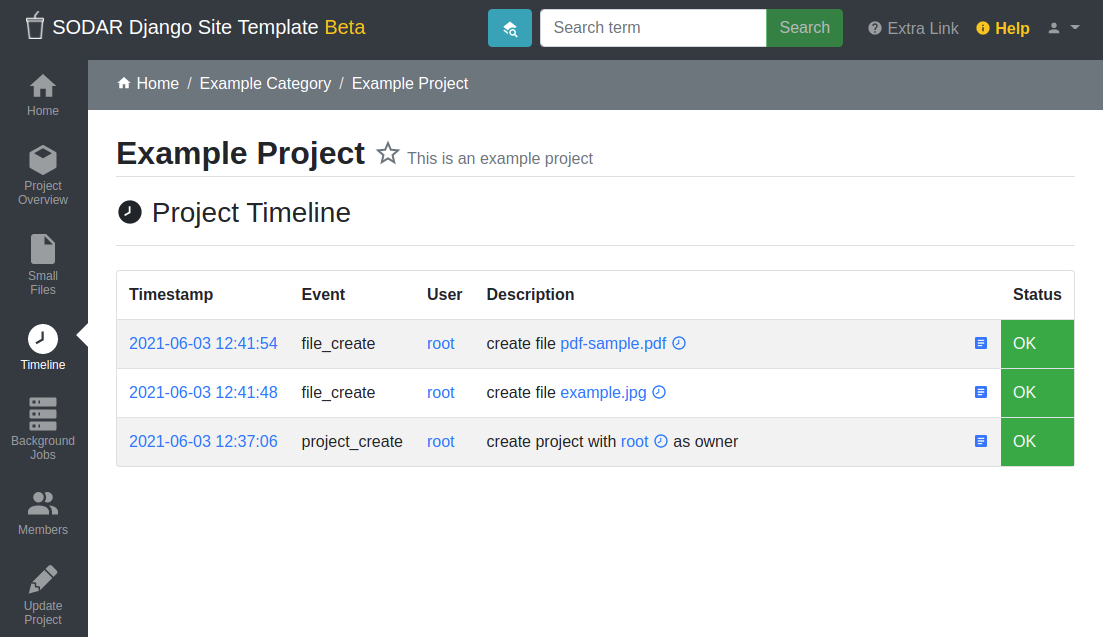
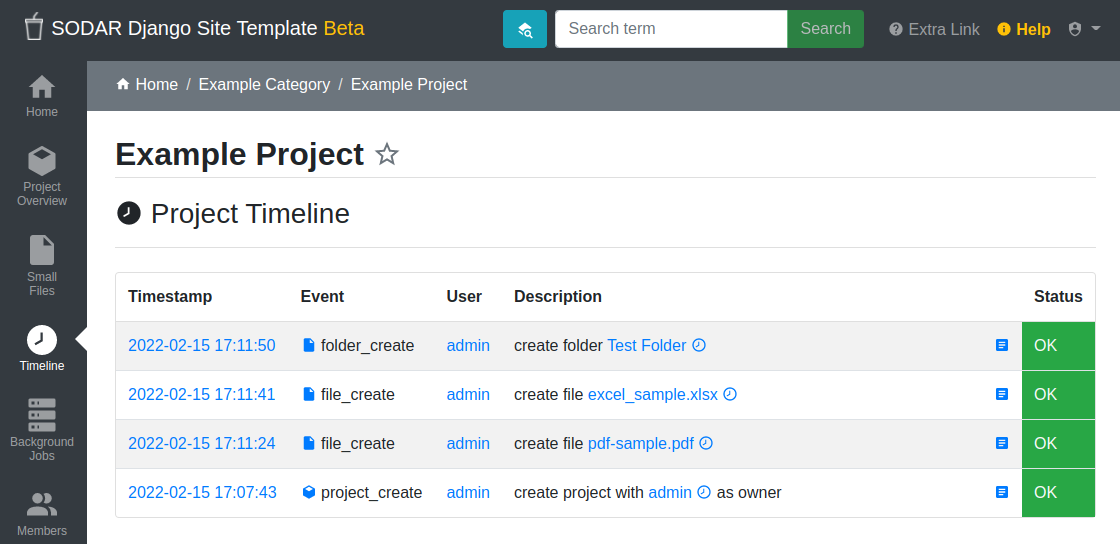
update for_the_impatient doc (#917)

diff --git a/docs/source/for_the_impatient.rst b/docs/source/for_the_impatient.rst
@@ -7,8 +7,8 @@ This section will give you the essential steps to setup a new SODAR Core based
 project. We will link to the parts of the manual where they were taken from such
 that you can read more in depth there.
 
-.. _for_the_impatient_see_it_in_action:
 
+.. _for_the_impatient_see_it_in_action:
 
 See It In Action
 ================
@@ -18,16 +18,22 @@ using SODAR Core. Although there only is a public demo available for VarFish at
 this time, the source code of the applications demonstrate how to use SODAR Core
 in complex web applications.
 
-  `VarFish <https://github.com/bihealth/varfish-server>`__
-    is a web-based tool for the analysis of variants.
+  `SODAR <https://github.com/bihealth/sodar-server>`_
+    The system for Omics data access and retrieval. This system is used to model
+    study metadata and manage associated data files in different Omics research
+    projects. SODAR Core was created by separating re-usable research project
+    management components from the SODAR project.
+
+  `VarFish <https://github.com/bihealth/varfish-server>`_
+    A web-based tool for the analysis of variants.
     It showcases how to build a complex data warehousing and data analysis web
     appliction using SODAR Core.
     More details are described in the `NAR Web Server Issue publication (doi:10.1093/nar/gkaa241) <https://doi.org/10.1093/nar/gkaa241>`__.
     The source code can be found on `github.com/bihealth/varfish-server <https://github.com/bihealth/varfish-server>`__.
     A demo is available at `varfish-demo.bihealth.org <https://varfish-demo.bihealth.org/login/>`__.
 
-  `DigestiFlow <https://github.com/bihealth/digestiflow-server>`__
-    is a web-based data system for the management and demultiplexing of Illumina
+  `DigestiFlow <https://github.com/bihealth/digestiflow-server>`_
+    A web-based data system for the management and demultiplexing of Illumina
     Flow Cells. It further implements various tools for sanity checking Illumina
     sample sheets and quality control (e.g., comparing barcode adapter sequence
     and actual sequence present in the sequencer output).
@@ -35,8 +41,8 @@ in complex web applications.
     The source code can be found on `github.com/bihealth/digestiflow-server <https://github.com/bihealth/digestiflow-server>`__.
     There currently is no public demo instance yet.
 
-  `Kiosc <https://github.com/bihealth/kiosc>`__
-    is a web application that allows to build scheduler Docker containers for
+  `Kiosc <https://github.com/bihealth/kiosc>`_
+    A web application that allows to build scheduler Docker containers for
     "data science" apps and dashboards. There currently is no public demo
     instance yet.
 
@@ -100,24 +106,15 @@ URLs to more.
 For activating the conda installation, use ``source ~/miniconda3/bin/activate``.
 
 
-Install SODAR Core
-==================
-
-We simply use ``pip`` for this:
-
-.. code-block:: bash
-
-    # you must have your miniconda3 install sourced, skip if done already
-    $ source ~/miniconda3/bin/activate
-    $ pip install django-sodar-core==0.10.8
-
-
 Download Example Site
 =====================
 
+The recommended way to get started with SODAR Core is to download and set up the
+example Django site, which installs SODAR Core and also sets up a default web
+site around it.
+
 We maintain a Git repository with a django project using the latest SODAR Core
 version here on GitHub: `sodar-django-site <https://github.com/bihealth/sodar-django-site>`_.
-We will use this to get hit the ground running.
 See :ref:`app_projectroles_integration` on other ways to get started with SODAR
 Core.
 
@@ -135,6 +132,8 @@ To complete this step install the development requirements.
 
 .. code-block:: bash
 
+    # you must have your miniconda3 install sourced, skip if done already
+    $ source ~/miniconda3/bin/activate
     $ pip install -r requirements/local.txt
 
 
@@ -160,8 +159,9 @@ The default value for this is shown below.
 
     DATABASE_URL="postgres://sodar-django-site:sodar-django-site@127.0.0.1/sodar-django-site"
 
-To keep it simple, you can use the following commands to create the correct
-database, user, and set the password.
+You can use the following commands to create the correct database, user, and set
+the password. Alternatively, you can run the ``utility/setup_database.sh``
+script and fill out the values as prompted.
 
 .. code-block:: bash
 
@@ -180,19 +180,19 @@ Now, we have to make sure that the environment file is read:
 Database Initialization
 =======================
 
-For the final steps, you will initialize the database...
+For the final steps, you will need to initialize the database:
 
 .. code-block:: bash
 
     $ python manage.py migrate
 
-... and create a new admin user ...
+Finally, create an admin user:
 
 .. code-block:: bash
 
     $ python manage.py createsuperuser
-    Username: root
-    Email address: root@example.com
+    Username: admin
+    Email address: admin@example.com
     Password:
     Password (again):
     Superuser created successfully.
@@ -201,7 +201,8 @@ For the final steps, you will initialize the database...
 The First Login
 ===============
 
-Now, start the server, and you can then visit http://127.0.0.1:8000/login/?next=/
+To access the site, start the server with ``make serve`` and use your web
+browser to navigate to the following URL: http://127.0.0.1:8000
 
 .. code-block:: bash
 
@@ -218,70 +219,77 @@ Now, start the server, and you can then visit http://127.0.0.1:8000/login/?next=
 
 You should see the following:
 
-.. figure:: _static/for_the_impatient/login_screen.png
+.. figure:: _static/for_the_impatient/login.png
+    :align: center
+    :scale: 50%
 
-Now, login with your superuser and you should see the following:
+Login with the superuser account you created. Afterwards you are redirected to
+your home view:
 
 .. figure:: _static/for_the_impatient/project_list.png
+    :align: center
+    :scale: 50%
 
-Click the little user icon on the top right to access the django admin (here is
-where you can create more users, for example) but also the preconfigured
-:term:`Site Apps <Site App>` :ref:`adminalerts <app_adminalerts>`,
-:ref:`siteinfo <app_siteinfo>`, :ref:`userprofile <app_userprofile>` and
-configuration for remote sites.
-The plus button on the left allows to create new categories and projects.
+By clicking the user icon on the top right corner you can access the Django
+admin (where you can create more users, for example) but also the preconfigured
+:term:`site apps <Site App>` :ref:`Adminalerts <app_adminalerts>`,
+:ref:`Siteinfo <app_siteinfo>`, :ref:`Userprofile <app_userprofile>` and
+configuration for remote sites. The :guilabel:`Create Category` link on the left
+hand sidebar allows you to create new categories.
 
 Now might also be a good time to read up more on the
-:ref:`projectroles <app_projectroles>` app as this is the fundamental app for
+:ref:`Projectroles <app_projectroles>` app as this is the fundamental app for
 most further development.
 
 
 The First Project
 =================
 
-You cannot create projects on the root level but you have to create a new
-category first (collections of projects). Use the "create category" button on
-the left to create a "example category" first, then create an "example project"
-within. The project details view should look as follows.
+Creating projects on the root level is not allowed by default, so you have to
+create a new category first. A category is a collection of projects and/or
+subcategories. First click the :guilabel:`Create Category` link on the sidebar
+to create an "Example Category". This takes you to the view of the newly created
+category. Next, click the :guilabel:`Create a Project or Category` link to
+create an "Example Project" within. The project details view should look as
+follows.
 
 .. figure:: _static/for_the_impatient/project_details.png
+    :align: center
+    :scale: 50%
 
-Note that the site search already works, so typing "example" into the text field
-on the top and clicking "search" will return your example project. The project
-overview shows the "project home card" for the installed project apps
-filefolders, timeline, and bgjobs. Usually, the latest five entries are shown
-here.
+At this point you can test the search functionality. Typing "example" into the
+text field on the top bar and clicking :guilabel:`Search` will return your
+example project. The project overview shows the *overview card* for installed
+project apps Filefolders, Timeline, and Bgjobs. Usually, the five most recent
+entries are shown here.
 
 .. note::
 
-    The filesfolders app is an example of the **data management** application of
+    The Filesfolders app is an example of the **data management** application of
     SODAR Core based apps. You can easily imagine a more advanced module/app
     that not only allows tagging of files but more structuring data and meta
     data more strongly.
 
-    SODAR Core was extracted as a re-useable library of component from
-    our (not yet released) SODAR project that allows the management of
-    structured meta data of experiments and files with data from such
-    experiments.
-
-Go ahead and try out the filesfolders app by clicking the "small files" icon on
-the left. After creating folders and uploading a few files, you will see a trace
-of actions in the timeline app:
+Go ahead and try out the Filesfolders app by clicking the
+:guilabel:`Small Files` link on the sidebar. After creating folders and
+uploading a few files, you will see a trace of actions in the Timeline app:
 
 .. figure:: _static/for_the_impatient/timeline.png
+    :align: center
+    :scale: 50%
 
 .. note::
 
     By default, ``sodar-django-site`` will store the files in the PostgreSQL
-    database but you can easily configure it to use other storage backends,
+    database. You can easily configure it to use other storage backends,
     e.g., the S3 protocol, with the
     `django-storage <https://django-storages.readthedocs.io/en/latest/>`_
-    package but this goes beyond this documentation.
+    package, but is beyond the scope of this documentation.
 
-Also, you will be able to find your uploaded file by name through the search
+You will now also be able to find your uploaded file by name through the search
 box. Note that any app that you write can easily provide all the integrations
-with the SODAR Core framework (your apps are no different than the built-in
-ones). Just have a look how we did it in the apps shipping with SODAR Core.
+with the SODAR Core framework, as your apps are no different than the built-in
+ones. Just have a look how we did it in the apps shipping with SODAR Core.
 
 
 Summary
@@ -293,9 +301,9 @@ apps:
 - At the lower most level all content is managed in projects which themselves
   can be assigned into categories.
 - Project apps can provide new content types that can be put into projects.
-  For example, the filesfolders app allows you to store files, folders, and
+  For example, the Filesfolders app allows you to store files, folders, and
   assign meta data to them. As another example, the timelines app stores events
-  that occured in a project, and other apps such as the filesfolders app can
+  that occured in a project, and other apps such as the Filesfolders app can
   register their events with it.
 - SODAR Core defines several plugin extension points that your apps can
   implement and make their content findable, for example.
@@ -309,7 +317,7 @@ Going on From Here
 
 - You can now start exploring your ``sodar-django-site`` and play around with
   it.
-- You can read the :ref`user_stories` section to learn how SODAR Core based
+- You can read the :ref:`user_stories` section to learn how SODAR Core based
   applications are built.
 - Continue reading :ref:`getting_started` for a more comprehensive documentation
   and walk-through of SODAR Core and its apps.
